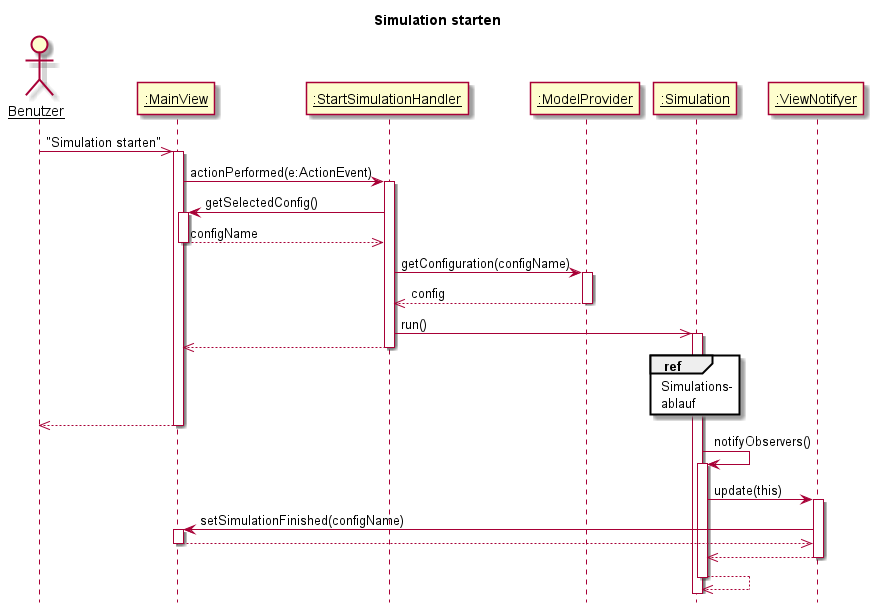
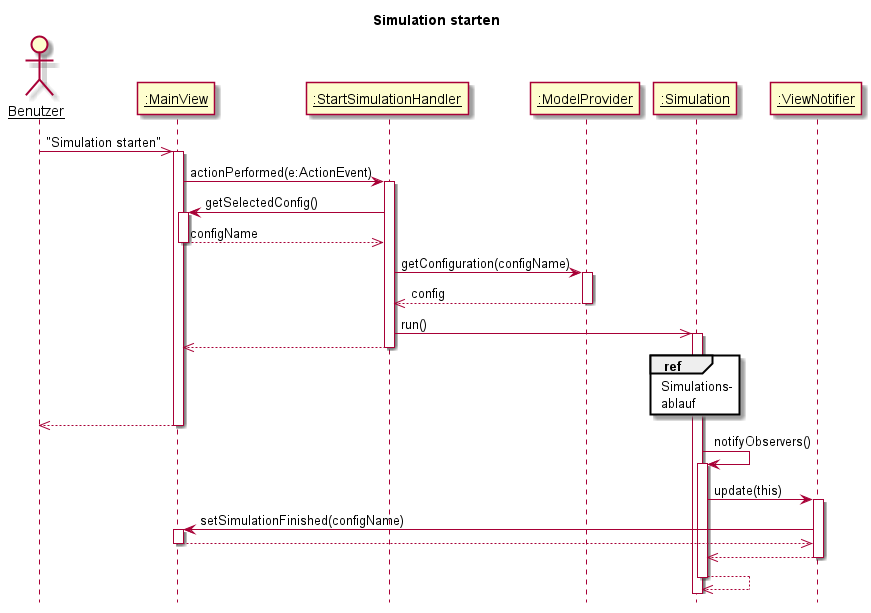
Sequenzdiagramme mit Beschreibungen dem Entwurfsdokument hinzugefügt

diff --git a/Entwurf/Systemarchitektur.tex b/Entwurf/Systemarchitektur.tex
@@ -18,9 +18,9 @@ Im Model sind die Objekte der Simulation abgebildet. Auch ist hier die gesamte B
 \noindent
 \makebox[\textwidth]{\includegraphics[scale=0.36]{Controller_package}}
 
-Zur Erfüllung der oben angedeuteten Aufgaben stehen dem Controller eine Reihe an weitere Klassen neben den ActionListener-Klassen, die sich im Paket Handlers befinden, zur Verfügung.\\
+Zur Erfüllung der oben angedeuteten Aufgaben steht dem Controller eine Reihe an weiteren Klassen neben den ActionListener-Klassen, die sich im Paket Handlers befinden, zur Verfügung.\\
 Zum einen müssen die GUI-Objekte, d.h. alle Fenster mit denen der Benutzer interagiert, erstellt werden. Dies wird durch das Fabrik-Entwurfsmuster realisiert. Das AbstractGuiFactory-Interface gibt alle nötigen Ansichten vor und bietet weiterhin die oben beschriebene Möglichkeit, das Programm zu einem späteren Zeitpunkt komfortabel um neue Benutzeroberflächen zu erweitern.\\
-Die SwingGuiFactory-Klasse erstellt die Objekte der von diesem Entwicklerteam angebotenen Swing-basierten Benutzeroberfläche.
+Die SwingGuiFactory-Klasse erstellt die Objekte der von diesem Entwicklerteam angebotenen, Swing-basierten Benutzeroberfläche.
 
 Bei dem ModelProvider handelt es sich um ein Einzelstück, das als zentrale Anlaufstelle für alle Model-Objekte dient. Das Einzelstück-Entwurfsmuster wurde verwendet, um Inkonsistenzen vorzubeugen.
 
@@ -30,7 +30,7 @@ Die Objekte werden in einem programminternen Verzeichnis gespeichert.
 Die vom Programm angebotenen "Dienstleistungen", darunter fallen die diversen Algorithmentypen\footnote{Adaptionsalgorithmen, Paarungsalgorithmen und Bewertungsalgorithmen} sowie die verfügbaren Bedingungen und Basis-Strategien, können durch den ModelServiceLoader zur Verfügung gestellt werden.\\
 Dies ist nötig, da sie auf Entwicklerebene um weitere Ausprägungen ergänzt werden können und diese ebenfalls an allen relevanten Stellen, z.B. im Auswahlfenster für den Benutzer, sichtbar sein sollen.
 
-Der ModelParser übernimmt die Kommunikation zwischen ViewModel und Model. Konkret werden die im ViewModel auf Korrektheit überprüften Benutzereingaben in Objekte umgewandelt, mit denen eine Simulation durchgeführt werden kann. Andersherum werden die Daten abgelaufener Simulationen in ein Format konvertiert, das die View darstellen kann.
+Der ModelParser überträgt das ViewModel in das Model. Konkret werden die im ViewModel auf Korrektheit überprüften Benutzereingaben in Objekte umgewandelt, mit denen eine Simulation durchgeführt werden kann. Andersherum werden die Daten abgelaufener Simulationen in ein Format konvertiert, das die View darstellen kann.
 
 Schließlich können durch das Interface Simulationen überwacht werden, wobei der ViewNotifier die Benutzeroberfläche benachrichtigt, sobald eine Simulation abgeschlossen ist. Es findet eine Parallelisierung statt, wodurch die Benutzeroberfläche auch während einer Simulation aktiv bleibt.
 

diff --git a/Entwurf/Sequenzdiagramme.tex b/Entwurf/Sequenzdiagramme.tex
@@ -1,0 +1,31 @@
+\section{Sequenzdiagramme}
+
+Im Folgenden werden zwei der wichtigsten Abläufe des Programms anhand jeweils eines Sequenzdiagramms dargestellt.
+Dabei handelt es sich um das Starten und den Ablauf einer Simulation.
+
+\begin{figure}[htbp]
+{\centering 
+\includegraphics[width=1.0\textwidth]{sequenz_simulationstarten_mitobs}}
+\bigskip
+
+
+Ausgangspunkt der Sequenz "`Simulation starten"' ist das Drücken des entsprechenden Buttons im Hauptfenster. Zuvor hat der Benutzer die gewünschte Konfiguration oder Mehrfachkonfiguration ausgewählt.
+Im Anschluss unternimmt der StartSimulationHandler die für den Start der Simulation nötigen Vorbereitungen und führt sie schließlich mit run() aus.
+Hier setzt die Sequenz "`Simulationsablauf"' an (s.u.).
+Während dem Ablauf der Simulation wird ihr Status durch den ViewNotifier überwacht. Stellt dieser fest, dass die Simulation abgeschlossen ist, benachrichtigt er das Hauptfenster, was die Sequenz beschließt.
+\end{figure}
+
+\begin{figure}[htbp]
+{\centering 
+\includegraphics[width=1.0\textwidth]{sequenz_simulation}}
+\bigskip
+
+
+Die Sequenz "`Simulationsablauf"' zeigt den eigentlichen Ablauf der Simulation. Dieser besteht im Wesentlichen aus zwei verschachtelten Schleifen. Zum Ende eines jeden Zyklus wird die Simulation auf ein Gleichgewicht überprüft, was ein Abbruchkriterium der äußeren Schleife darstellt.
+Die Spiele werden durch simulate() auf der Simulation selbst ausgeführt, wohingegen Manipulationen, die den Datensatz der Simulation betreffen, durch den entsprechenden Algorithmus vorgenommen werden.
+
+\end{figure}
+
+
+
+

diff --git a/Entwurf/entwurf.tex b/Entwurf/entwurf.tex
@@ -42,5 +42,6 @@
 
 \lstset{numbers=left}
 
+\input{Sequenzdiagramme}
 \input{pseudocode}
 \end{document}
